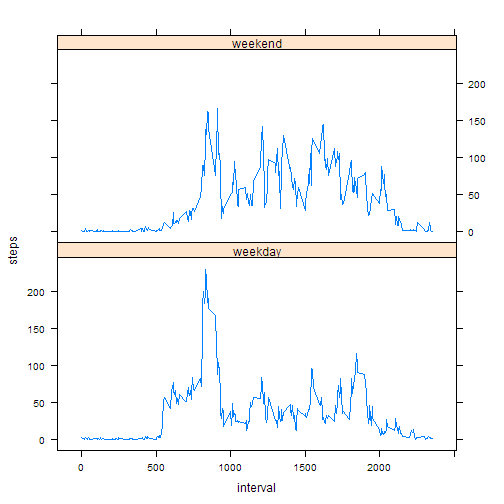
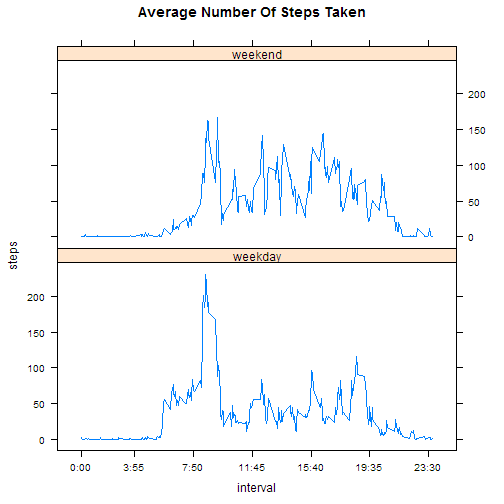
Graphs Prettied

diff --git a/PA1_template.html b/PA1_template.html
@@ -200,20 +200,19 @@ library(ggplot2)
 
 aData &lt;- read.csv(&quot;activity.csv&quot;)
 aData$date &lt;- as.Date(aData$date)
-
-#Make Intervals Prettier
-#fst &lt;- floor(aData$interval/100)
-#lst &lt;- sprintf(&quot;%02d&quot;,aData$interval %% 100)
-#aData$clockInterval &lt;- paste(fst,lst,sep=&quot;:&quot;)
 </code></pre>
 
 <h2>What is mean total number of steps taken per day?</h2>
 
 <pre><code class="r">tSteps &lt;- aggregate(steps ~ date, data = aData, sum)
-hist(tSteps$steps,xlab=&quot;Steps&quot;,main=&quot;Histogram of Total Number of Steps Taken Each Day&quot;, breaks = 7)
+h &lt;- hist(tSteps$steps,xlab=&quot;Steps&quot;,main=&quot;Histogram of Total Number of Steps Taken Each Day&quot;, breaks = 10)
+xfit&lt;-seq(min(tSteps$steps),max(tSteps$steps))
+yfit&lt;-dnorm(xfit,mean=mean(tSteps$steps),sd=sd(tSteps$steps))
+yfit &lt;- yfit*diff(h$mids[1:2])*length(tSteps$steps)
+lines(xfit, yfit, col=&quot;blue&quot;, lwd=2) 
 </code></pre>
 
[2 lines of base64/hex data omitted]
 
 <pre><code class="r">mn &lt;- sprintf(&quot;%5.2f&quot;,mean(tSteps$steps))
 mdn &lt;- median(tSteps$steps)
@@ -227,17 +226,31 @@ mdn &lt;- median(tSteps$steps)
 <h2>What is the average daily activity pattern?</h2>
 
 <pre><code class="r">int_tSteps &lt;- aggregate(steps ~ interval, data = aData, mean)
-with(int_tSteps, plot(interval, steps, type=&quot;l&quot;, main = &quot;Average Number Of Steps Taken&quot;))
+
+#Make Intervals Prettier
+iData &lt;- int_tSteps
+iData$steps &lt;- NULL
+fst &lt;- floor(iData$interval/100)
+lst &lt;- sprintf(&quot;%02d&quot;,iData$interval %% 100)
+iData$timestamp &lt;- paste(fst,lst,sep=&quot;:&quot;)
+
+#Number of ticks on x-axis
+whint &lt;- seq(1,288,47)
+
+with(int_tSteps, plot(interval, steps, type=&quot;l&quot;, main = &quot;Average Number Of Steps Taken&quot;, xaxt = &quot;n&quot;))
+
+axis(side=1, at = int_tSteps$interval[whint], labels = iData$timestamp[whint])
 </code></pre>
 
[2 lines of base64/hex data omitted]
 
-<pre><code class="r">maxsteps &lt;- int_tSteps[which.max(int_tSteps$steps),1]
+<pre><code class="r">maxsteps &lt;- iData[which.max(int_tSteps$steps),2]
+maxsteps2 &lt;- iData[which.max(int_tSteps$steps) + 1,2]
 maxstepsd &lt;- sprintf(&quot;%3.2f&quot;, int_tSteps[which.max(int_tSteps$steps),2])
 </code></pre>
 
 <ol>
-<li>The 5-minute interval, on average across all the days in the dataset, containing the maximum number of steps is 835 with 206.17 steps</li>
+<li>The 5-minute interval, on average across all the days in the dataset, containing the maximum number of steps is 8:35 to 8:40 with 206.17 steps</li>
 </ol>
 
 <h2>Imputing missing values</h2>
@@ -253,12 +266,17 @@ adj_aData$steps &lt;- ifelse(is.na(adj_aData$steps),adj_aData$asteps,adj_aData$s
 adj_tSteps &lt;- aggregate(steps ~ date, data = adj_aData, sum)
 amn &lt;- sprintf(&quot;%5.2f&quot;, mean(adj_tSteps$steps))
 amdn &lt;- sprintf(&quot;%5.2f&quot;, median(adj_tSteps$steps))
-hist(adj_tSteps$steps,xlab=&quot;Steps&quot;,main=&quot;Histogram of Adjusted Total Number of Steps Taken Each Day&quot;)
+
+h &lt;- hist(adj_tSteps$steps,xlab=&quot;Steps&quot;,main=&quot;Histogram of Adjusted Total Number of Steps Taken Each Day&quot;, breaks = 10)
+xfit&lt;-seq(min(adj_tSteps$steps),max(adj_tSteps$steps))
+yfit&lt;-dnorm(xfit,mean=mean(adj_tSteps$steps),sd=sd(adj_tSteps$steps))
+yfit &lt;- yfit*diff(h$mids[1:2])*length(adj_tSteps$steps)
+lines(xfit, yfit, col=&quot;blue&quot;, lwd=2) 
 </code></pre>
 
[2 lines of base64/hex data omitted]
 
-<p><em>The missing values have been replace by the total mean for corresponding interval</em></p>
+<p><strong>The missing values have been replace by the total mean for corresponding interval</strong></p>
 
 <ol>
 <li>The  total number of missing values in the dataset is 2304</li>
@@ -270,12 +288,12 @@ hist(adj_tSteps$steps,xlab=&quot;Steps&quot;,main=&quot;Histogram of Adjusted To
 <h2>Are there differences in activity patterns between weekdays and weekends?</h2>
 
 <pre><code class="r">adj_aData$whatday &lt;- ifelse(weekdays(adj_aData$date) %in% c(&quot;Saturday&quot;, &quot;Sunday&quot;),&quot;weekend&quot;,&quot;weekday&quot;)
-
 adj_int_tSteps &lt;- aggregate(steps ~ interval + whatday, data = adj_aData, mean)
-xyplot(steps ~ interval | whatday, data = adj_int_tSteps, layout = c(1,2), type = &quot;l&quot;)
+scalesList &lt;- list(x = list(labels = iData$timestamp[whint], at = iData$interval[whint]))
+xyplot(steps ~ interval | whatday, data = adj_int_tSteps, layout = c(1,2), type =&quot;l&quot;, scales = scalesList, main=&quot;Average Number Of Steps Taken&quot;)
 </code></pre>
 
[2 lines of base64/hex data omitted]
 
 </body>
 

diff --git a/PA1_template.md b/PA1_template.md
@@ -10,11 +10,6 @@ library(ggplot2)
 
 aData <- read.csv("activity.csv")
 aData$date <- as.Date(aData$date)
-
-#Make Intervals Prettier
-#fst <- floor(aData$interval/100)
-#lst <- sprintf("%02d",aData$interval %% 100)
-#aData$clockInterval <- paste(fst,lst,sep=":")
 ```
 
 
@@ -22,7 +17,11 @@ aData$date <- as.Date(aData$date)
 
 ```r
 tSteps <- aggregate(steps ~ date, data = aData, sum)
-hist(tSteps$steps,xlab="Steps",main="Histogram of Total Number of Steps Taken Each Day", breaks = 7)
+h <- hist(tSteps$steps,xlab="Steps",main="Histogram of Total Number of Steps Taken Each Day", breaks = 10)
+xfit<-seq(min(tSteps$steps),max(tSteps$steps))
+yfit<-dnorm(xfit,mean=mean(tSteps$steps),sd=sd(tSteps$steps))
+yfit <- yfit*diff(h$mids[1:2])*length(tSteps$steps)
+lines(xfit, yfit, col="blue", lwd=2) 
 ```
 
 ![plot of chunk totalsteps](figure/totalsteps.png) 
@@ -38,16 +37,30 @@ mdn <- median(tSteps$steps)
 
 ```r
 int_tSteps <- aggregate(steps ~ interval, data = aData, mean)
-with(int_tSteps, plot(interval, steps, type="l", main = "Average Number Of Steps Taken"))
+
+#Make Intervals Prettier
+iData <- int_tSteps
+iData$steps <- NULL
+fst <- floor(iData$interval/100)
+lst <- sprintf("%02d",iData$interval %% 100)
+iData$timestamp <- paste(fst,lst,sep=":")
+
+#Number of ticks on x-axis
+whint <- seq(1,288,47)
+
+with(int_tSteps, plot(interval, steps, type="l", main = "Average Number Of Steps Taken", xaxt = "n"))
+
+axis(side=1, at = int_tSteps$interval[whint], labels = iData$timestamp[whint])
 ```
 
 ![plot of chunk avgdaily](figure/avgdaily.png) 
 
 ```r
-maxsteps <- int_tSteps[which.max(int_tSteps$steps),1]
+maxsteps <- iData[which.max(int_tSteps$steps),2]
+maxsteps2 <- iData[which.max(int_tSteps$steps) + 1,2]
 maxstepsd <- sprintf("%3.2f", int_tSteps[which.max(int_tSteps$steps),2])
 ```
-1. The 5-minute interval, on average across all the days in the dataset, containing the maximum number of steps is 835 with 206.17 steps
+1. The 5-minute interval, on average across all the days in the dataset, containing the maximum number of steps is 8:35 to 8:40 with 206.17 steps
 
 ## Imputing missing values
 
@@ -63,12 +76,17 @@ adj_aData$steps <- ifelse(is.na(adj_aData$steps),adj_aData$asteps,adj_aData$step
 adj_tSteps <- aggregate(steps ~ date, data = adj_aData, sum)
 amn <- sprintf("%5.2f", mean(adj_tSteps$steps))
 amdn <- sprintf("%5.2f", median(adj_tSteps$steps))
-hist(adj_tSteps$steps,xlab="Steps",main="Histogram of Adjusted Total Number of Steps Taken Each Day")
+
+h <- hist(adj_tSteps$steps,xlab="Steps",main="Histogram of Adjusted Total Number of Steps Taken Each Day", breaks = 10)
+xfit<-seq(min(adj_tSteps$steps),max(adj_tSteps$steps))
+yfit<-dnorm(xfit,mean=mean(adj_tSteps$steps),sd=sd(adj_tSteps$steps))
+yfit <- yfit*diff(h$mids[1:2])*length(adj_tSteps$steps)
+lines(xfit, yfit, col="blue", lwd=2) 
 ```
 
 ![plot of chunk missvalues](figure/missvalues.png) 
 
-*The missing values have been replace by the total mean for corresponding interval*
+**The missing values have been replace by the total mean for corresponding interval**
 
 1. The  total number of missing values in the dataset is 2304
 1. The adjusted mean total number of steps taken per day is 10766.19.
@@ -79,9 +97,9 @@ hist(adj_tSteps$steps,xlab="Steps",main="Histogram of Adjusted Total Number of S
 
 ```r
 adj_aData$whatday <- ifelse(weekdays(adj_aData$date) %in% c("Saturday", "Sunday"),"weekend","weekday")
-
 adj_int_tSteps <- aggregate(steps ~ interval + whatday, data = adj_aData, mean)
-xyplot(steps ~ interval | whatday, data = adj_int_tSteps, layout = c(1,2), type = "l")
+scalesList <- list(x = list(labels = iData$timestamp[whint], at = iData$interval[whint]))
+xyplot(steps ~ interval | whatday, data = adj_int_tSteps, layout = c(1,2), type ="l", scales = scalesList, main="Average Number Of Steps Taken")
 ```
 
 ![plot of chunk weekend](figure/weekend.png) 
